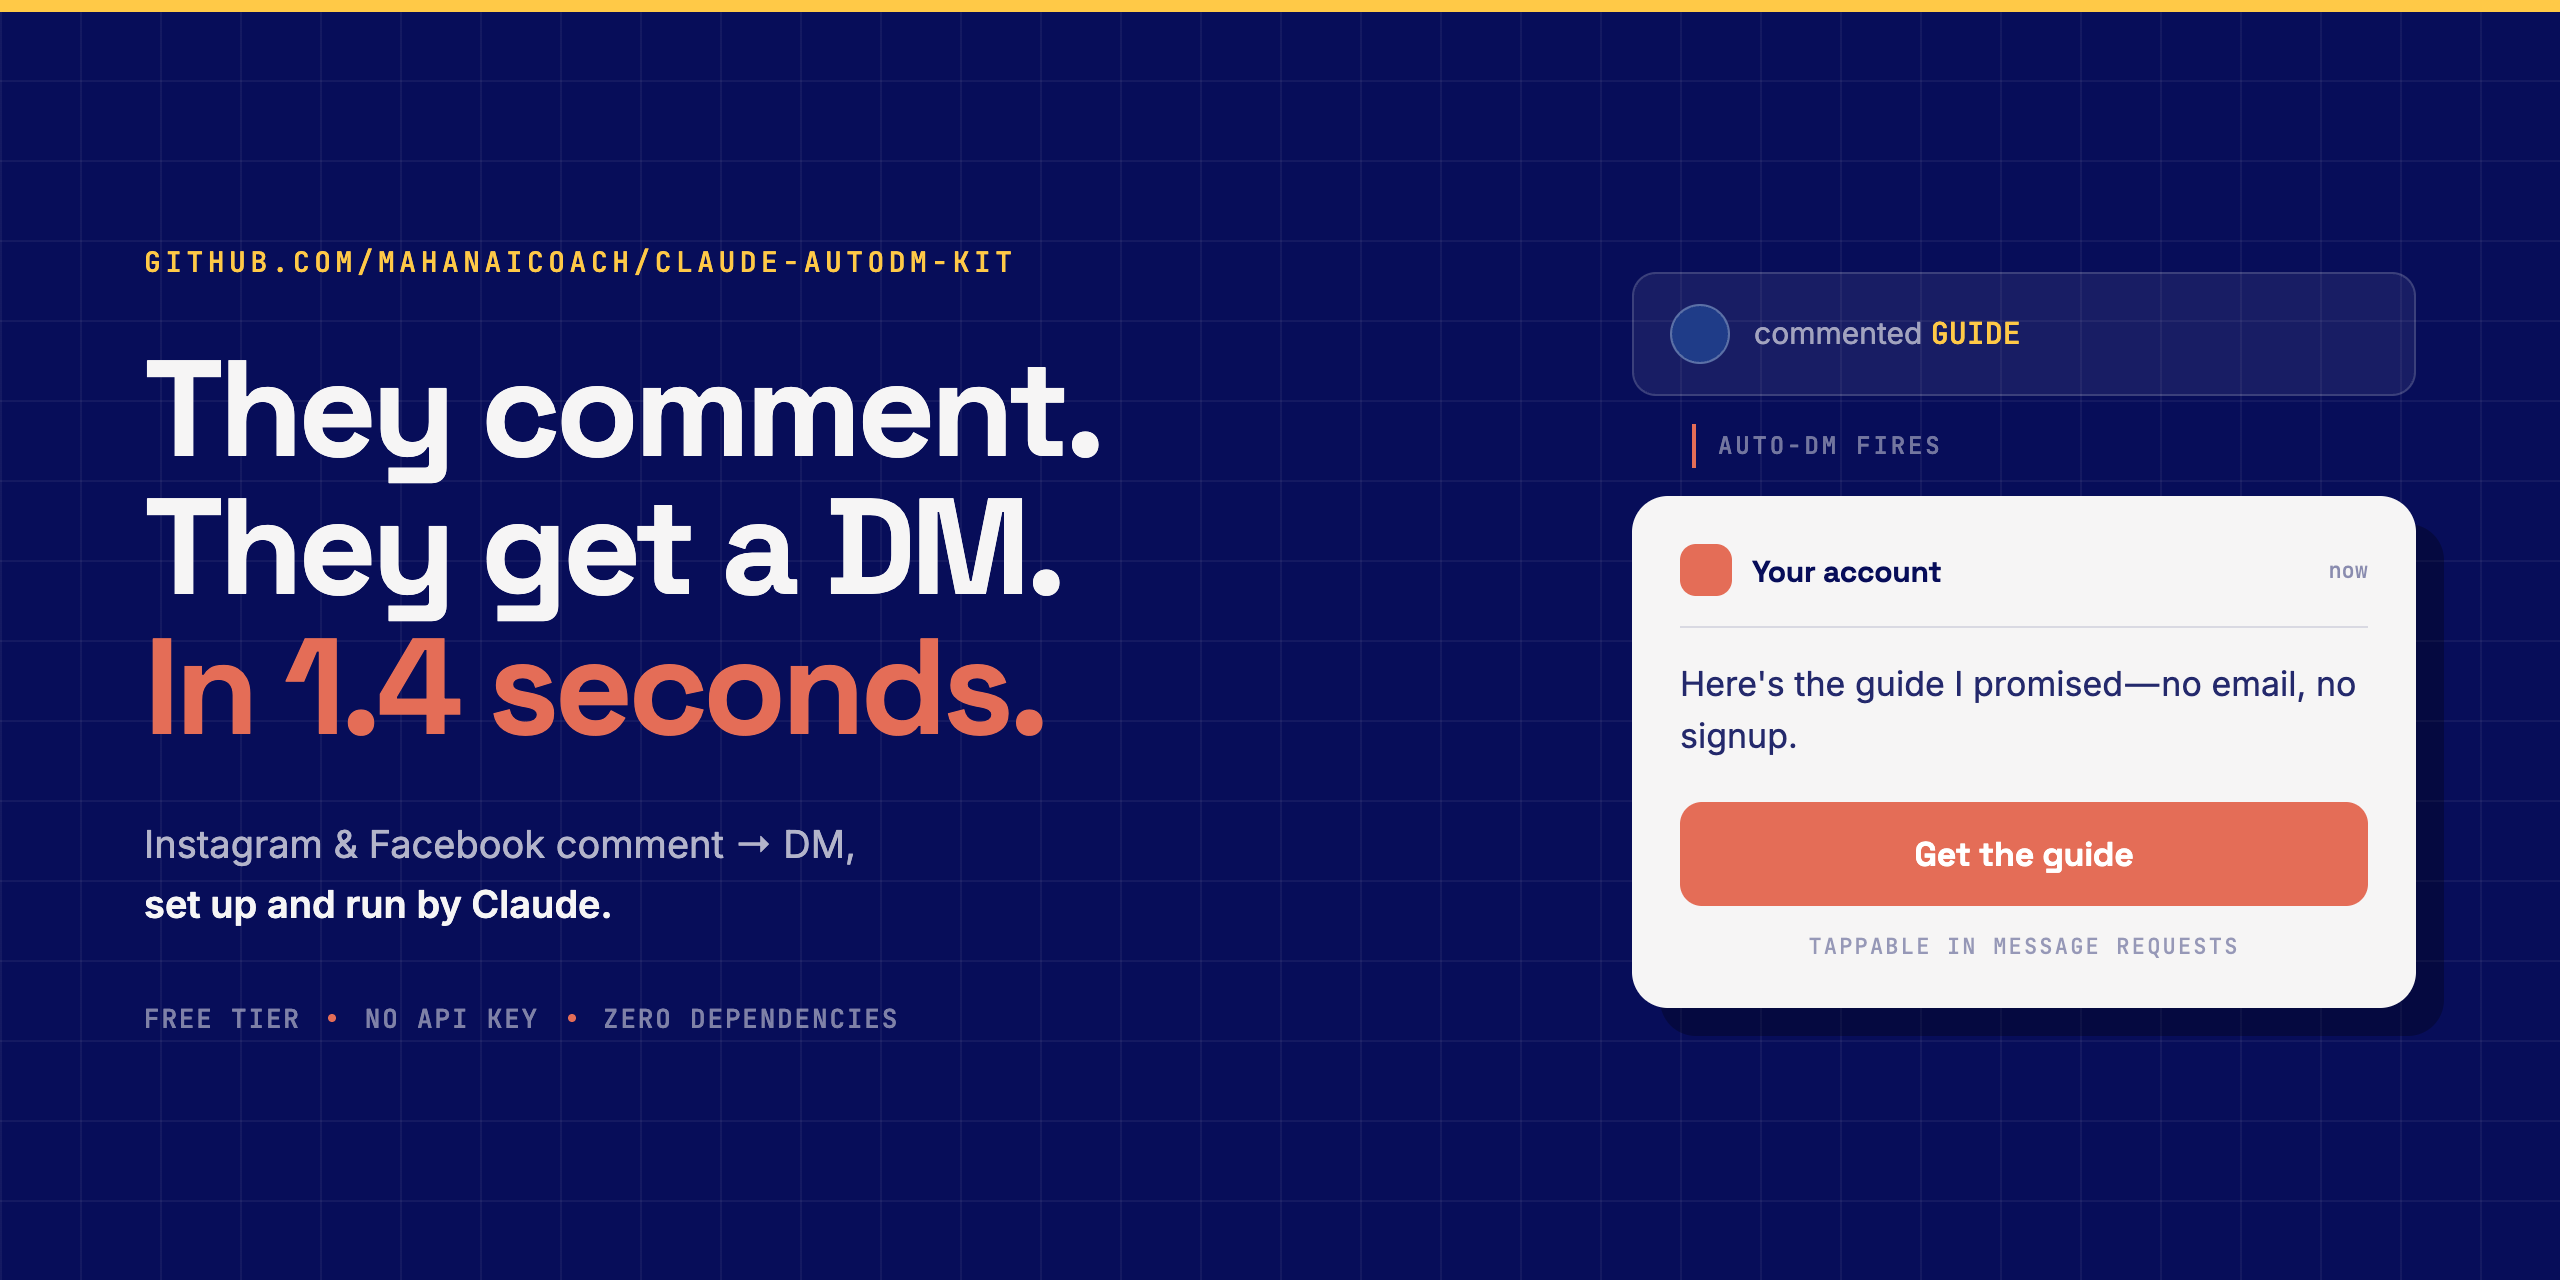
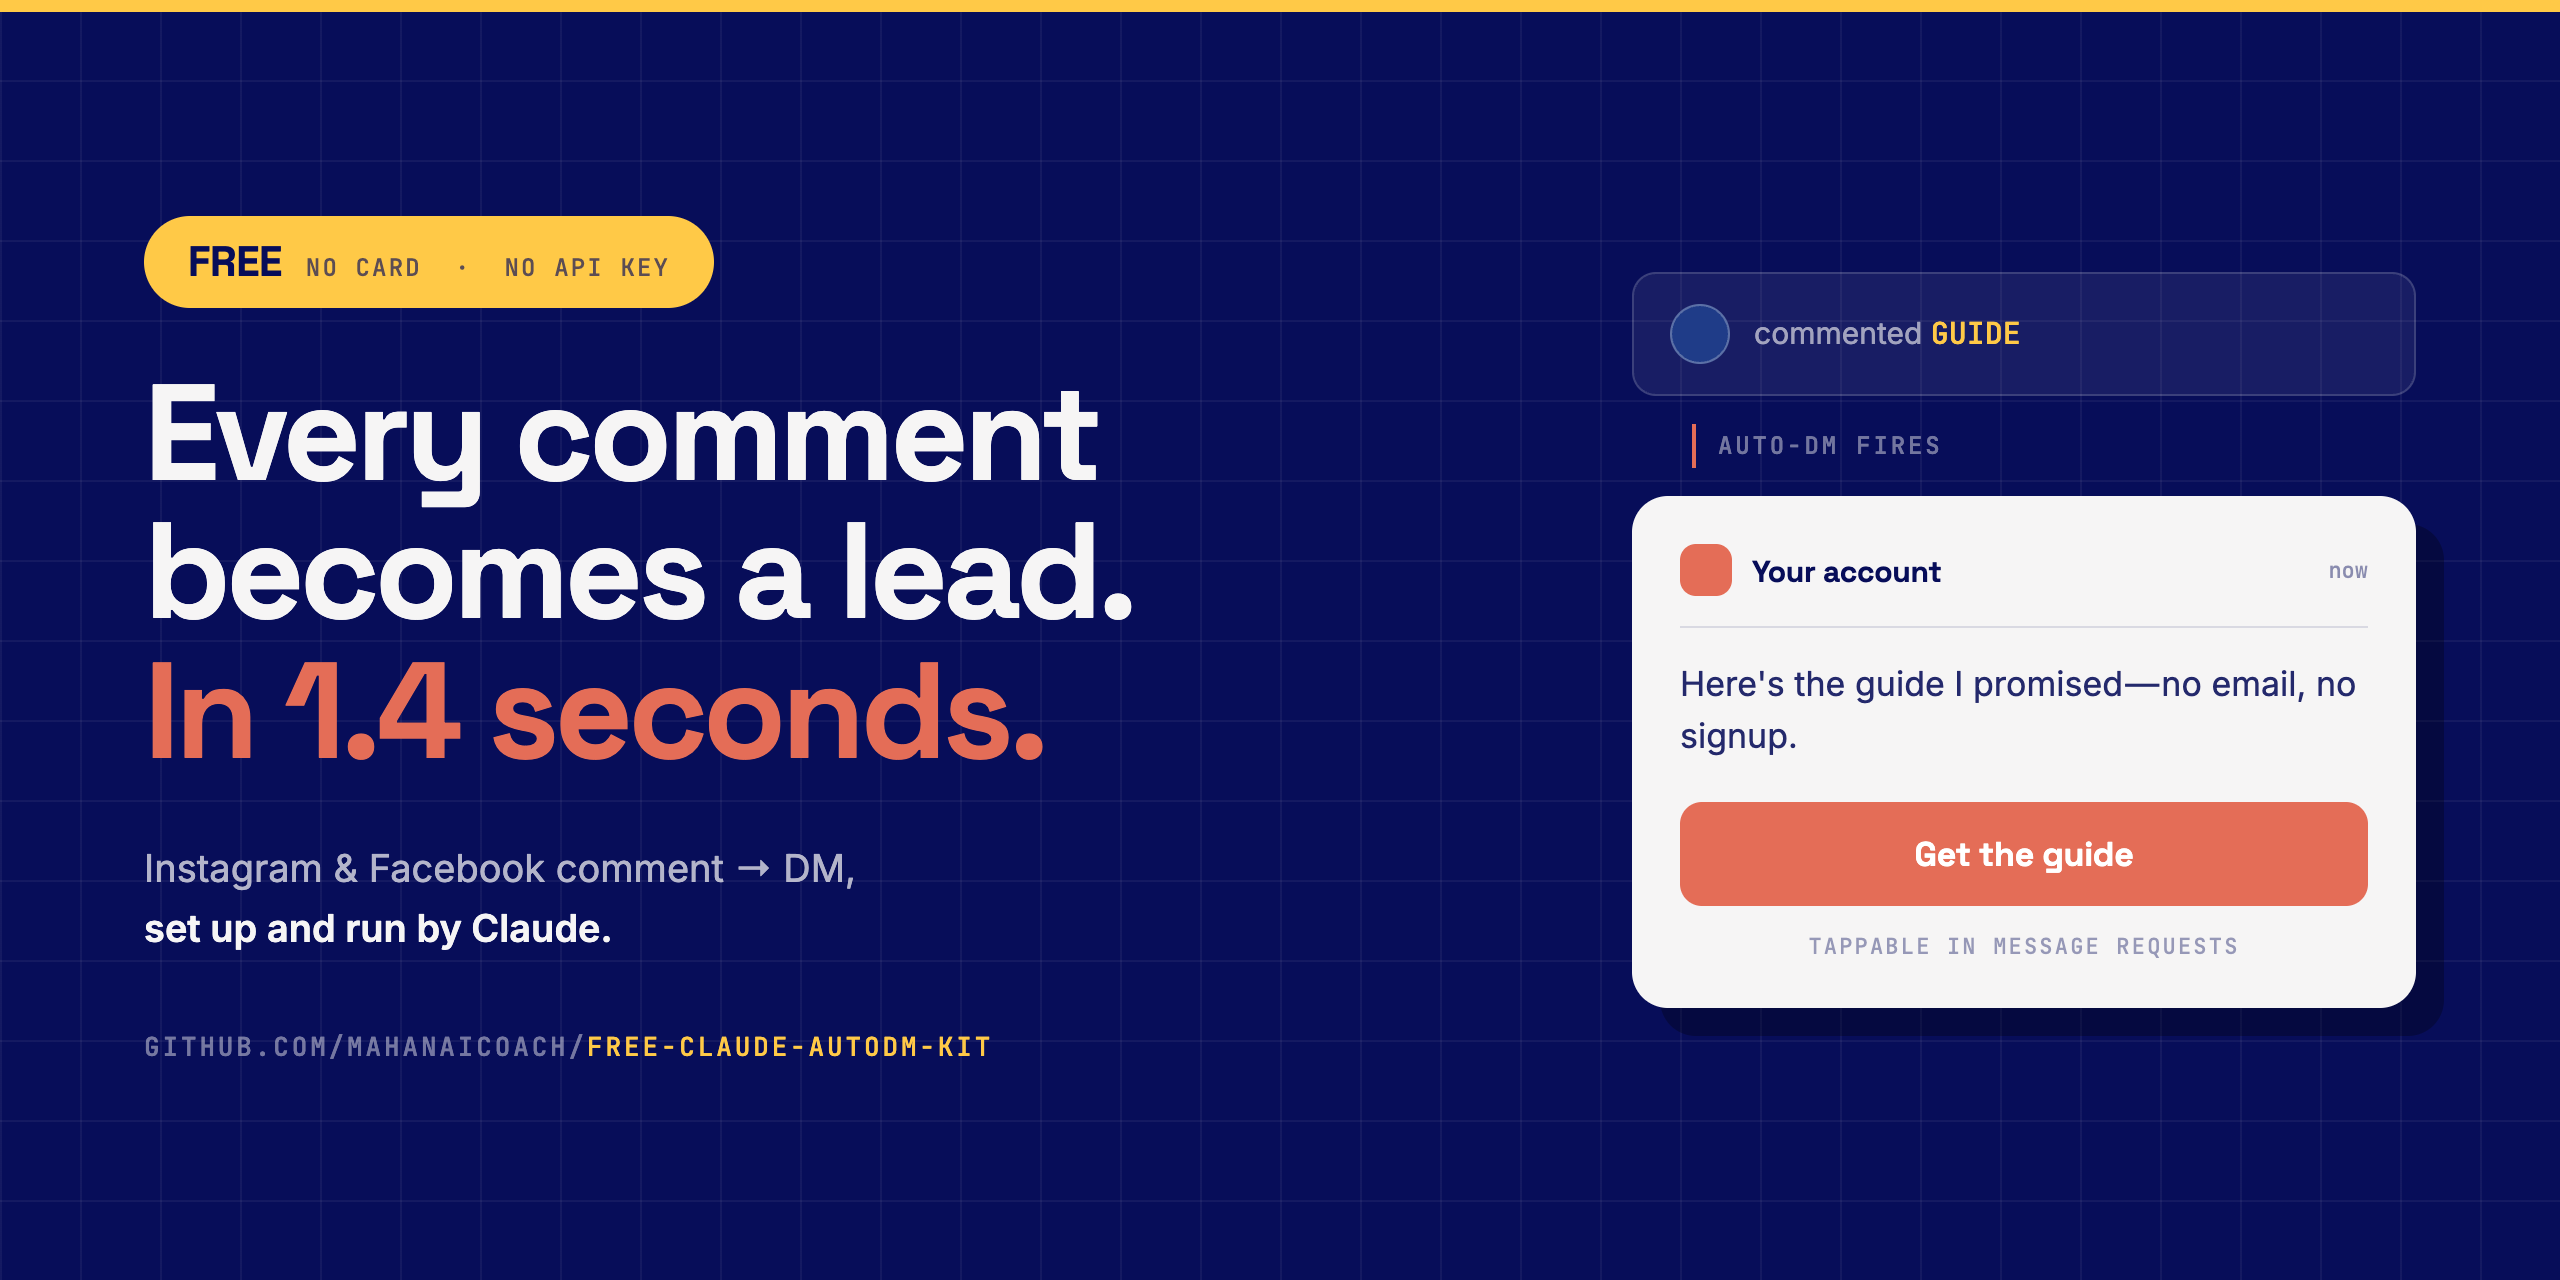
Lead with the promise and the price: free-claude-autodm-kit
Renamed to put 'free' in the name — it is the strongest fact about this
repo and it was buried in a feature list.

The image now leads with the outcome instead of the mechanic:
'Every comment becomes a lead. In 1.4 seconds.' A gold FREE badge carries
'no card, no API key' at the top, and the repo URL anchors the bottom
instead of competing with it.

Old URLs redirect.

diff --git a/assets/social-preview.html b/assets/social-preview.html
@@ -67,13 +67,38 @@
 
   /* ── left ─────────────────────────────────────────────── */
 
-  .repo {
-    font-family: var(--mono);
-    font-size: 14px;
-    letter-spacing: 0.16em;
-    color: var(--gold);
-    margin-bottom: 30px;
+  /* The badge carries the strongest fact, so it leads and the URL anchors instead. */
+  .badge {
+    display: inline-flex;
+    align-items: baseline;
+    gap: 12px;
+    background: var(--gold);
+    color: var(--ink);
+    border-radius: 999px;
+    padding: 9px 22px 10px;
+    margin-bottom: 28px;
   }
+  .badge .big {
+    font-family: var(--disp);
+    font-weight: 700;
+    font-size: 21px;
+    letter-spacing: -0.01em;
+  }
+  .badge .small {
+    font-family: var(--mono);
+    font-size: 12px;
+    letter-spacing: 0.09em;
+    color: rgba(7, 13, 89, 0.66);
+  }
+
+  .repo {
+    margin-top: 36px;
+    font-family: var(--mono);
+    font-size: 13px;
+    letter-spacing: 0.11em;
+    color: rgba(246, 245, 245, 0.46);
+  }
+  .repo .slug { color: var(--gold); }
 
   h1 {
     font-family: var(--disp);
@@ -95,17 +120,6 @@
   .sub b { color: var(--paper); font-weight: 600; }
   .sub .arw { padding: 0 0.28em; }
 
-  .meta {
-    margin-top: 34px;
-    display: flex;
-    align-items: center;
-    gap: 14px;
-    font-family: var(--mono);
-    font-size: 13px;
-    letter-spacing: 0.07em;
-    color: rgba(246, 245, 245, 0.5);
-  }
-  .dot { width: 4px; height: 4px; border-radius: 50%; background: var(--coral); }
 
   /* ── right: the thing itself ──────────────────────────── */
 
@@ -215,20 +229,19 @@
 
   <div class="stage">
     <div>
-      <div class="repo">GITHUB.COM/MAHANAICOACH/CLAUDE-AUTODM-KIT</div>
+      <div class="badge">
+        <span class="big">FREE</span>
+        <span class="small">NO CARD &nbsp;·&nbsp; NO API KEY</span>
+      </div>
 
-      <h1>They comment.<br>They get a DM.<br><span class="hot">In 1.4 seconds.</span></h1>
+      <h1>Every comment<br>becomes a lead.<br><span class="hot">In 1.4 seconds.</span></h1>
 
       <p class="sub">
         Instagram &amp; Facebook comment<span class="arw">→</span>DM,<br>
         <b>set up and run by Claude.</b>
       </p>
 
-      <div class="meta">
-        <span>FREE TIER</span><span class="dot"></span>
-        <span>NO API KEY</span><span class="dot"></span>
-        <span>ZERO DEPENDENCIES</span>
-      </div>
+      <div class="repo">GITHUB.COM/MAHANAICOACH/<span class="slug">FREE-CLAUDE-AUTODM-KIT</span></div>
     </div>
 
     <div class="device">

diff --git a/README.md b/README.md
@@ -1,6 +1,6 @@
-![claude-autodm-kit — Instagram & Facebook comment to DM, set up and run by Claude](assets/social-preview.png)
+![free-claude-autodm-kit — every comment becomes a lead, in 1.4 seconds. Free.](assets/social-preview.png)
 
-# claude-autodm-kit
+# free-claude-autodm-kit
 
 **Someone comments a word on your post. They get a DM with a tappable button. In three
 seconds. For free.**
@@ -17,7 +17,7 @@ No monthly tool. No card. No code you have to read.
 **1.** Open [claude.ai/code](https://claude.ai/code) and clone this repo into it:
 
 ```bash
-git clone https://github.com/Mahanaicoach/claude-autodm-kit && cd claude-autodm-kit
+git clone https://github.com/Mahanaicoach/free-claude-autodm-kit && cd free-claude-autodm-kit
 ```
 
 **2.** Say:
